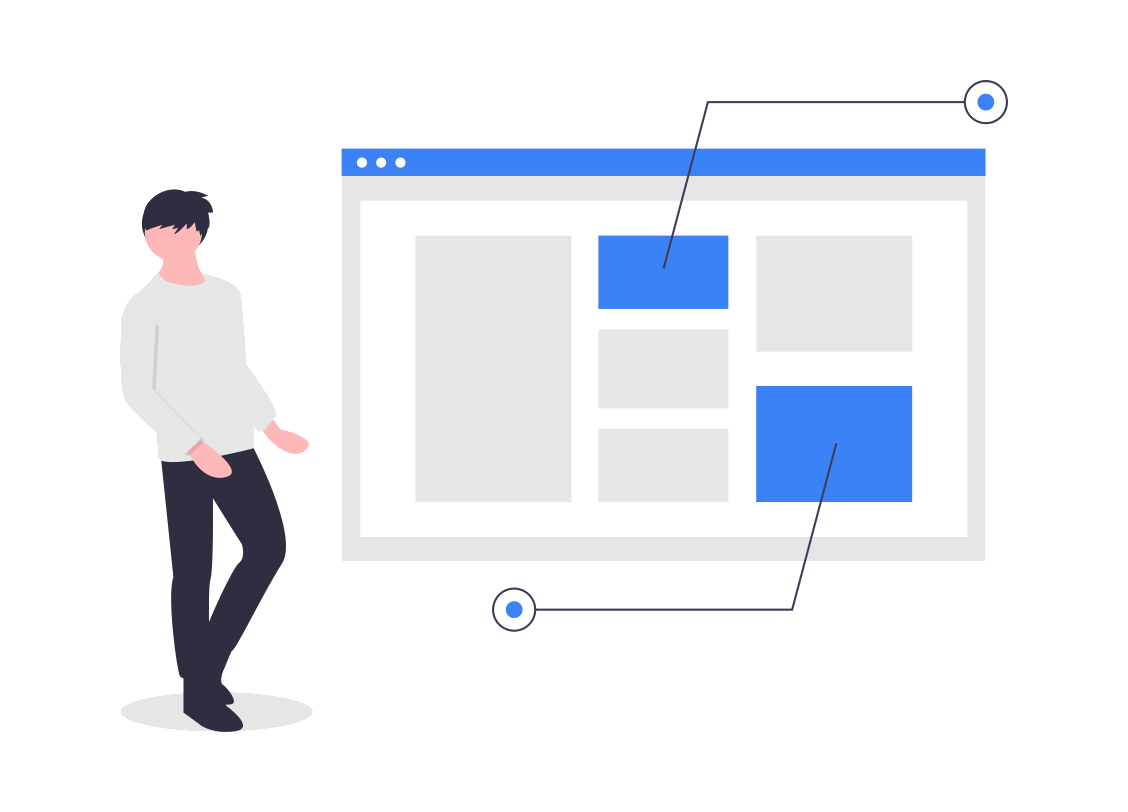
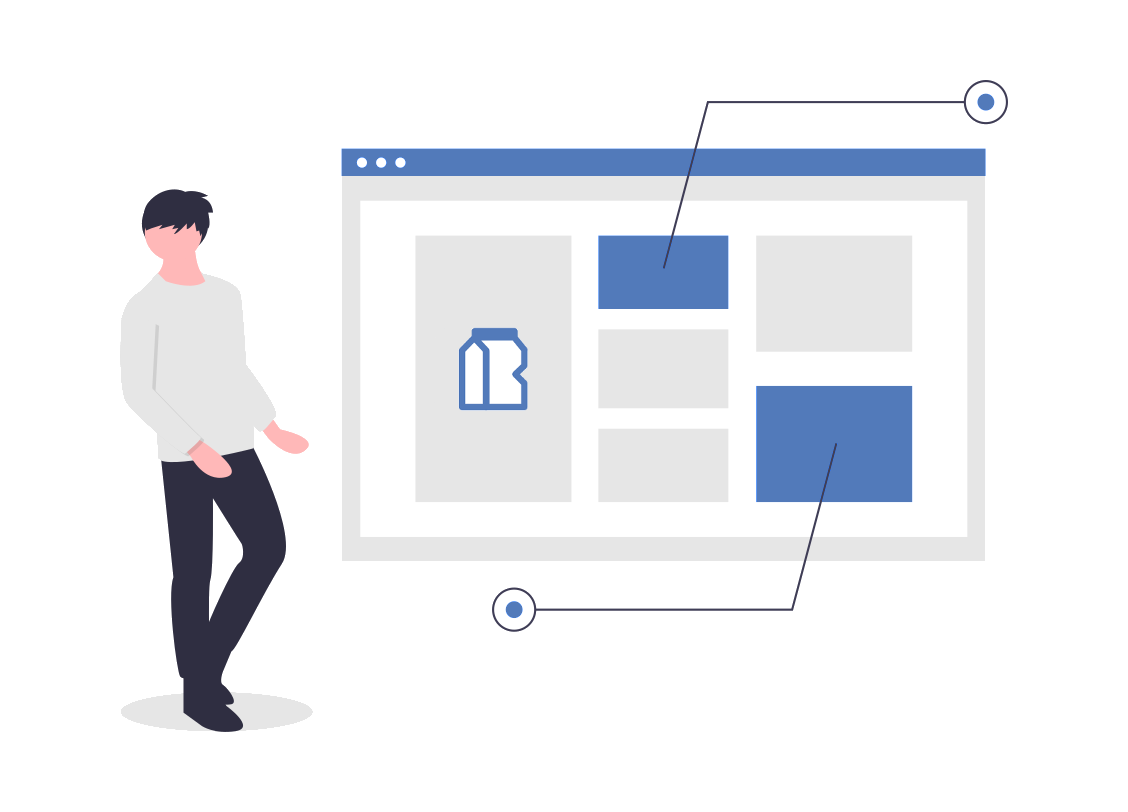
#50 - little refactor

diff --git a/src/pages/about.svelte b/src/pages/about.svelte
@@ -1,141 +1,13 @@
-<Section disableColumns="true">
-    <div slot="header">{ $_('pages.about.blumilk.header') }</div>
-    <div slot="description" class="lg:flex text-lg">
-        <div class="flex-1">
-            {#each $_('pages.about.blumilk.company') as item}
-                <p class="lg:pr-12 pb-4">
-                    { item }
-                </p>
-            {/each}
-        </div>
-        <div class="flex-1">
-            <div class="lg:hidden text-center font-gray-100 py-4 mb-4">
-                <i class="asterisk icon"></i>
-            </div>
-            {#each $_('pages.about.blumilk.team') as item}
-                <p class="lg:pr-12 pb-4">
-                    { item }
-                </p>
-            {/each}
-        </div>
-    </div>
-</Section>
-
-<div class="mt-12 container mx-auto flex justify-evenly">
-    <div class="bg-white rounded-xl shadow-lg">
-        <img src="/images/photos/placeholder.jpg" alt="Team #1" class="w-96 p-3">
-    </div>
-    <div class="bg-white rounded-xl shadow-lg">
-        <img src="/images/photos/placeholder.jpg" alt="Team #2" class="w-96 p-3">
-    </div>
-    <div class="bg-white rounded-xl shadow-lg">
-        <img src="/images/photos/placeholder.jpg" alt="Team #3" class="w-96 p-3">
-    </div>
-</div>
-
-<Ribbon>
-    <div class="pl-8 text-center grid grid-cols-2 gap-4 lg:flex">
-        {#each counters as counter}
-            <div class="lg:flex-1">
-                <div class="font-bold text-6xl p-2">{ counter.number }</div>
-                <div>{ $_(counter.label) }</div>
-            </div>
-        {/each}
-    </div>
-</Ribbon>
-
-<Section classes="my-24 items-start">
-    <div slot="header">{ $_('pages.about.references.header') }</div>
-    <div slot="description">
-        <p class="pr-4">
-            { $_('pages.about.references.lead') }
-        </p>
-        <div class="mt-12 grid grid-cols-4 gap-4 mr-16">
-            <img src="/images/clients/pwsz.png" alt="Państwowa Wyższa Szkoła Zawodowa im. Witelona w Legnicy"
-                 class="mx-auto">
-            <img src="/images/clients/insly.png" alt="Insly Ltd." class="mx-auto">
-            <img src="/images/clients/iizi.png" alt="Iizi Polska" class="mx-auto">
-            <img src="/images/clients/wmd.png" alt="WMD Software" class="mx-auto">
-        </div>
-    </div>
-    <div slot="content">
-        {#each references as reference}
-            <ReferenceBalloon name="{ reference.name }" icon="{ reference.icon }"
-                              position="{ $_('pages.about.references.references.' + reference.id + '.position') }">
-                { $_('pages.about.references.references.' + reference.id + '.quote') }
-            </ReferenceBalloon>
-        {/each}
-    </div>
-</Section>
-
-<Section classes="flex-row-reverse" contentClasses="hidden xl:block">
-    <div slot="header">{ $_('pages.about.stack.header') }</div>
-    <div slot="description">
-        {#each $_('pages.about.stack.content') as item}
-            <p class="lg:pr-12 pb-4">
-                { item }
-            </p>
-        {/each}
-    </div>
-    <div slot="content" class="hexagons p-4">
-        <div class="flex ml-16">
-            <Hexagon background="bg-blue-100"/>
-            <Hexagon title="PHP" image="/images/tech/php.png"/>
-            <Hexagon title="Laravel" image="/images/tech/laravel.png"/>
-            <Hexagon background="animate-pulse bg-blue-200"/>
-            <Hexagon background="bg-blue-300"/>
-        </div>
-        <div class="flex -mt-8">
-            <Hexagon title="PHPUnit" image="/images/tech/phpunit.png"/>
-            <Hexagon title="Behat" image="/images/tech/behat.png"/>
-            <Hexagon background="animate-pulse bg-blue-200"/>
-            <Hexagon title="Lumen" image="/images/tech/lumen.png"/>
-            <Hexagon title="Phalcon" image="/images/tech/phalcon.png"/>
-        </div>
-        <div class="flex ml-16 -mt-8">
-            <Hexagon background="animate-pulse bg-blue-300"/>
-            <Hexagon title="GitHub" image="/images/tech/github.png"/>
-            <Hexagon title="GitHub Actions" image="/images/tech/githubactions.png"/>
-            <Hexagon title="Docker" image="/images/tech/docker.png"/>
-            <Hexagon title="nginx" image="/images/tech/nginx.png"/>
-        </div>
-        <div class="flex -mt-8">
-            <Hexagon title="JavaScript" image="/images/tech/js.png"/>
-            <Hexagon title="Node.js" image="/images/tech/node.png"/>
-            <Hexagon title="Vue.js" image="/images/tech/vue.png"/>
-            <Hexagon title="Svelte" image="/images/tech/svelte.png"/>
-            <Hexagon title="React" image="/images/tech/react.png"/>
-        </div>
-        <div class="flex ml-16 -mt-8">
-            <Hexagon title="MySQL" image="/images/tech/mysql.png"/>
-            <Hexagon title="PostgreSQL" image="/images/tech/postgres.png"/>
-            <Hexagon background="animate-pulse bg-blue-300"/>
-            <Hexagon title="Redis" image="/images/tech/redis.png"/>
-            <Hexagon title="Elasticsearch" image="/images/tech/es.png"/>
-        </div>
-        <div class="flex -mt-8">
-            <Hexagon title="Tailwind CSS" image="/images/tech/tailwind.png"/>
-            <Hexagon background="bg-blue-200"/>
-            <Hexagon title="GraphQL" image="/images/tech/graphql.png"/>
-            <Hexagon background="animate-pulse bg-blue-400"/>
-            <Hexagon title="RabbitMQ" image="/images/tech/rabbitmq.png"/>
-        </div>
-    </div>
-</Section>
-
-<style>
-    .hexagons {
-        transform: scale(.66);
-    }
-</style>
+<BlumilkSection/>
+<PhotosSection/>
+<CountersSection/>
+<ReferencesSection/>
+<ToolsSection/>
 
 <script>
-  import { _ } from 'svelte-i18n'
-  import Ribbon from '../components/ribbon.svelte'
-  import Section from '../components/lead-section.svelte'
-  import Hexagon from '../components/hexagon.svelte'
-  import ReferenceBalloon from '../components/reference.svelte'
-
-  import counters from '../assets/counters'
-  import references from '../assets/references'
+  import BlumilkSection from '../sections/about/blumilk.svelte'
+  import PhotosSection from '../sections/about/photos.svelte'
+  import CountersSection from '../sections/about/counters.svelte'
+  import ReferencesSection from '../sections/about/references.svelte'
+  import ToolsSection from '../sections/about/tools.svelte'
 </script>

diff --git a/src/sections/about/tools.svelte b/src/sections/about/tools.svelte
@@ -1,0 +1,66 @@
+<Section classes="flex-row-reverse" contentClasses="hidden xl:block">
+    <div slot="header">{ $_('pages.about.stack.header') }</div>
+    <div slot="description">
+        {#each $_('pages.about.stack.content') as item}
+            <p class="lg:pr-12 pb-4">
+                { item }
+            </p>
+        {/each}
+    </div>
+    <div slot="content" class="hexagons p-4">
+        <div class="flex ml-16">
+            <Hexagon background="bg-blue-100"/>
+            <Hexagon title="PHP" image="/images/tech/php.png"/>
+            <Hexagon title="Laravel" image="/images/tech/laravel.png"/>
+            <Hexagon background="animate-pulse bg-blue-200"/>
+            <Hexagon background="bg-blue-300"/>
+        </div>
+        <div class="flex -mt-8">
+            <Hexagon title="PHPUnit" image="/images/tech/phpunit.png"/>
+            <Hexagon title="Behat" image="/images/tech/behat.png"/>
+            <Hexagon background="animate-pulse bg-blue-200"/>
+            <Hexagon title="Lumen" image="/images/tech/lumen.png"/>
+            <Hexagon title="Phalcon" image="/images/tech/phalcon.png"/>
+        </div>
+        <div class="flex ml-16 -mt-8">
+            <Hexagon background="animate-pulse bg-blue-300"/>
+            <Hexagon title="GitHub" image="/images/tech/github.png"/>
+            <Hexagon title="GitHub Actions" image="/images/tech/githubactions.png"/>
+            <Hexagon title="Docker" image="/images/tech/docker.png"/>
+            <Hexagon title="nginx" image="/images/tech/nginx.png"/>
+        </div>
+        <div class="flex -mt-8">
+            <Hexagon title="JavaScript" image="/images/tech/js.png"/>
+            <Hexagon title="Node.js" image="/images/tech/node.png"/>
+            <Hexagon title="Vue.js" image="/images/tech/vue.png"/>
+            <Hexagon title="Svelte" image="/images/tech/svelte.png"/>
+            <Hexagon title="React" image="/images/tech/react.png"/>
+        </div>
+        <div class="flex ml-16 -mt-8">
+            <Hexagon title="MySQL" image="/images/tech/mysql.png"/>
+            <Hexagon title="PostgreSQL" image="/images/tech/postgres.png"/>
+            <Hexagon background="animate-pulse bg-blue-300"/>
+            <Hexagon title="Redis" image="/images/tech/redis.png"/>
+            <Hexagon title="Elasticsearch" image="/images/tech/es.png"/>
+        </div>
+        <div class="flex -mt-8">
+            <Hexagon title="Tailwind CSS" image="/images/tech/tailwind.png"/>
+            <Hexagon background="bg-blue-200"/>
+            <Hexagon title="GraphQL" image="/images/tech/graphql.png"/>
+            <Hexagon background="animate-pulse bg-blue-400"/>
+            <Hexagon title="RabbitMQ" image="/images/tech/rabbitmq.png"/>
+        </div>
+    </div>
+</Section>
+
+<style>
+    .hexagons {
+        transform: scale(.66);
+    }
+</style>
+
+<script>
+  import { _ } from 'svelte-i18n'
+  import Section from '../../components/lead-section.svelte'
+  import Hexagon from '../../components/hexagon.svelte'
+</script>

diff --git a/src/sections/about/references.svelte b/src/sections/about/references.svelte
@@ -1,0 +1,44 @@
+<Section classes="my-24 items-start">
+    <div slot="header">{ $_('pages.about.references.header') }</div>
+    <div slot="description">
+        <p class="pr-4">
+            { $_('pages.about.references.lead') }
+        </p>
+        <div class="mt-12 grid grid-cols-4 gap-4 mr-16">
+            <img src="/images/clients/pwsz.png" alt="Państwowa Wyższa Szkoła Zawodowa im. Witelona w Legnicy"
+                 class="mx-auto">
+            <img src="/images/clients/insly.png" alt="Insly Ltd." class="mx-auto">
+            <img src="/images/clients/iizi.png" alt="Iizi Polska" class="mx-auto">
+            <img src="/images/clients/wmd.png" alt="WMD Software" class="mx-auto">
+        </div>
+    </div>
+    <div slot="content">
+        {#each references as reference}
+            <ReferenceBalloon name="{ reference.name }" icon="{ reference.icon }"
+                              position="{ $_('pages.about.references.references.' + reference.id + '.position') }">
+                { $_('pages.about.references.references.' + reference.id + '.quote') }
+            </ReferenceBalloon>
+        {/each}
+    </div>
+</Section>
+
+{#if false}
+    <div class="mt-12 container mx-auto flex justify-evenly">
+        <div class="bg-white rounded-xl shadow-lg">
+            <img src="/images/photos/placeholder.jpg" alt="Team #1" class="w-96 p-3">
+        </div>
+        <div class="bg-white rounded-xl shadow-lg">
+            <img src="/images/photos/placeholder.jpg" alt="Team #2" class="w-96 p-3">
+        </div>
+        <div class="bg-white rounded-xl shadow-lg">
+            <img src="/images/photos/placeholder.jpg" alt="Team #3" class="w-96 p-3">
+        </div>
+    </div>
+{/if}
+
+<script>
+  import { _ } from 'svelte-i18n'
+  import Section from '../../components/lead-section.svelte'
+  import ReferenceBalloon from '../../components/reference.svelte'
+  import references from '../../assets/references'
+</script>

diff --git a/src/pages/career.svelte b/src/pages/career.svelte
@@ -55,14 +55,7 @@
 </Ribbon>
 
 <div class="container mx-auto opacity-50 px-16 pt-12 text-sm">
-    { $_('pages.career.gdpr') } lorem ipsum dolor sit amet, consectetur adipisicing elit. Blanditiis consequatur magni
-    pariatur! Ad error eum hic ipsum nam necessitatibus nesciunt, nostrum, obcaecati omnis, quibusdam quisquam rem saepe
-    temporibus veniam voluptates. Lorem ipsum dolor sit amet, consectetur adipisicing elit. Ab iure maxime repudiandae
-    vel voluptatum. Alias dolore expedita hic labore, maxime officia quasi quo quod rem repellendus rerum sequi sit
-    voluptate. Lorem ipsum dolor sit amet, consectetur adipisicing elit. Ad architecto consequuntur delectus deleniti
-    dolore doloremque ea illum in iure laborum laudantium maiores necessitatibus obcaecati optio quia quod, repellendus
-    tempore veniam? Lorem ipsum dolor sit amet, consectetur adipisicing elit. Ad aliquid atque, blanditiis cum
-    cupiditate dolore enim est illum iste minus modi mollitia, non provident sed ut vel velit voluptate voluptates?
+    { $_('pages.career.gdpr') }
 </div>
 
 <script>

diff --git a/src/sections/about/blumilk.svelte b/src/sections/about/blumilk.svelte
@@ -1,0 +1,27 @@
+<Section disableColumns="true">
+    <div slot="header">{ $_('pages.about.blumilk.header') }</div>
+    <div slot="description" class="lg:flex text-lg">
+        <div class="flex-1">
+            {#each $_('pages.about.blumilk.company') as item}
+                <p class="lg:pr-12 pb-4">
+                    { item }
+                </p>
+            {/each}
+        </div>
+        <div class="flex-1">
+            <div class="lg:hidden text-center font-gray-100 py-4 mb-4">
+                <i class="asterisk icon"></i>
+            </div>
+            {#each $_('pages.about.blumilk.team') as item}
+                <p class="lg:pr-12 pb-4">
+                    { item }
+                </p>
+            {/each}
+        </div>
+    </div>
+</Section>
+
+<script>
+  import { _ } from 'svelte-i18n'
+  import Section from '../../components/lead-section.svelte'
+</script>

diff --git a/src/sections/about/photos.svelte b/src/sections/about/photos.svelte
@@ -1,0 +1,13 @@
+{#if false}
+    <div class="mt-12 container mx-auto flex justify-evenly">
+        <div class="bg-white rounded-xl shadow-lg">
+            <img src="/images/photos/placeholder.jpg" alt="Team #1" class="w-96 p-3">
+        </div>
+        <div class="bg-white rounded-xl shadow-lg">
+            <img src="/images/photos/placeholder.jpg" alt="Team #2" class="w-96 p-3">
+        </div>
+        <div class="bg-white rounded-xl shadow-lg">
+            <img src="/images/photos/placeholder.jpg" alt="Team #3" class="w-96 p-3">
+        </div>
+    </div>
+{/if}

diff --git a/src/pages/contact.svelte b/src/pages/contact.svelte
@@ -22,7 +22,7 @@
                 </div>
                 <div class="flex-1 pr-12 pl-4 py-2">
                     <div on:click={ handleFormSubmit }
-                         class="text-center px-4 py-2 mt-1 block w-full rounded-md bg-blue-500 text-white cursor-pointer">
+                         class="text-center px-4 py-2 mt-1 block w-full rounded-md bg-brand text-white cursor-pointer">
                         { $_('pages.contact.send') } <i class="fitted google icon"></i> Forms
                     </div>
                 </div>

diff --git a/src/sections/about/counters.svelte b/src/sections/about/counters.svelte
@@ -1,0 +1,16 @@
+<Ribbon>
+    <div class="pl-8 text-center grid grid-cols-2 gap-4 lg:flex">
+        {#each counters as counter}
+            <div class="lg:flex-1">
+                <div class="font-bold text-6xl p-2">{ counter.number }</div>
+                <div>{ $_(counter.label) }</div>
+            </div>
+        {/each}
+    </div>
+</Ribbon>
+
+<script>
+  import { _ } from 'svelte-i18n'
+  import Ribbon from '../../components/ribbon.svelte'
+  import counters from '../../assets/counters'
+</script>

diff --git a/src/layout/navigation.svelte b/src/layout/navigation.svelte
@@ -3,7 +3,7 @@
         <a href="{ $url('./') }" class="flex font-bold items-center">
             <img src="./logo.png" alt="Blumilk" class="w-12 mr-2">
             blumilk
-            <span id="cursor" class="text-blue-500">_</span>
+            <span id="cursor" class="text-brand">_</span>
         </a>
     </div>
     <div class="flex-1 justify-end items-center hidden md:flex">

diff --git a/src/pages/index.svelte b/src/pages/index.svelte
@@ -1,7 +1,7 @@
 <Section>
     <div slot="header" class="text-5xl lg:text-6xl">
         { $_('pages.home.hero.prefix') }
-        <span class="text-blue-500">{ $_('pages.home.hero.focus') }</span>
+        <span class="text-brand">{ $_('pages.home.hero.focus') }</span>
         { $_('pages.home.hero.suffix') }
     </div>
     <div slot="description" class="mt-16 text-xl">

diff --git a/src/components/ribbon.svelte b/src/components/ribbon.svelte
@@ -1,3 +1,3 @@
-<div class="w-full bg-blue-400 text-white mt-12 xl:mt-24 mb-12 p-12 shadow-lg">
+<div class="w-full bg-gradient-to-tr from-brand to-blue-400 text-white mt-12 xl:mt-24 mb-12 p-12 shadow-lg">
     <slot/>
 </div>

diff --git a/tailwind.config.js b/tailwind.config.js
@@ -4,7 +4,11 @@ module.exports = {
     content: ['./src/**/*.svelte'],
   },
   theme: {
-    extend: {},
+    extend: {
+      colors: {
+        brand: '#527aba'
+      },
+    },
   },
   variants: {},
   plugins: [
